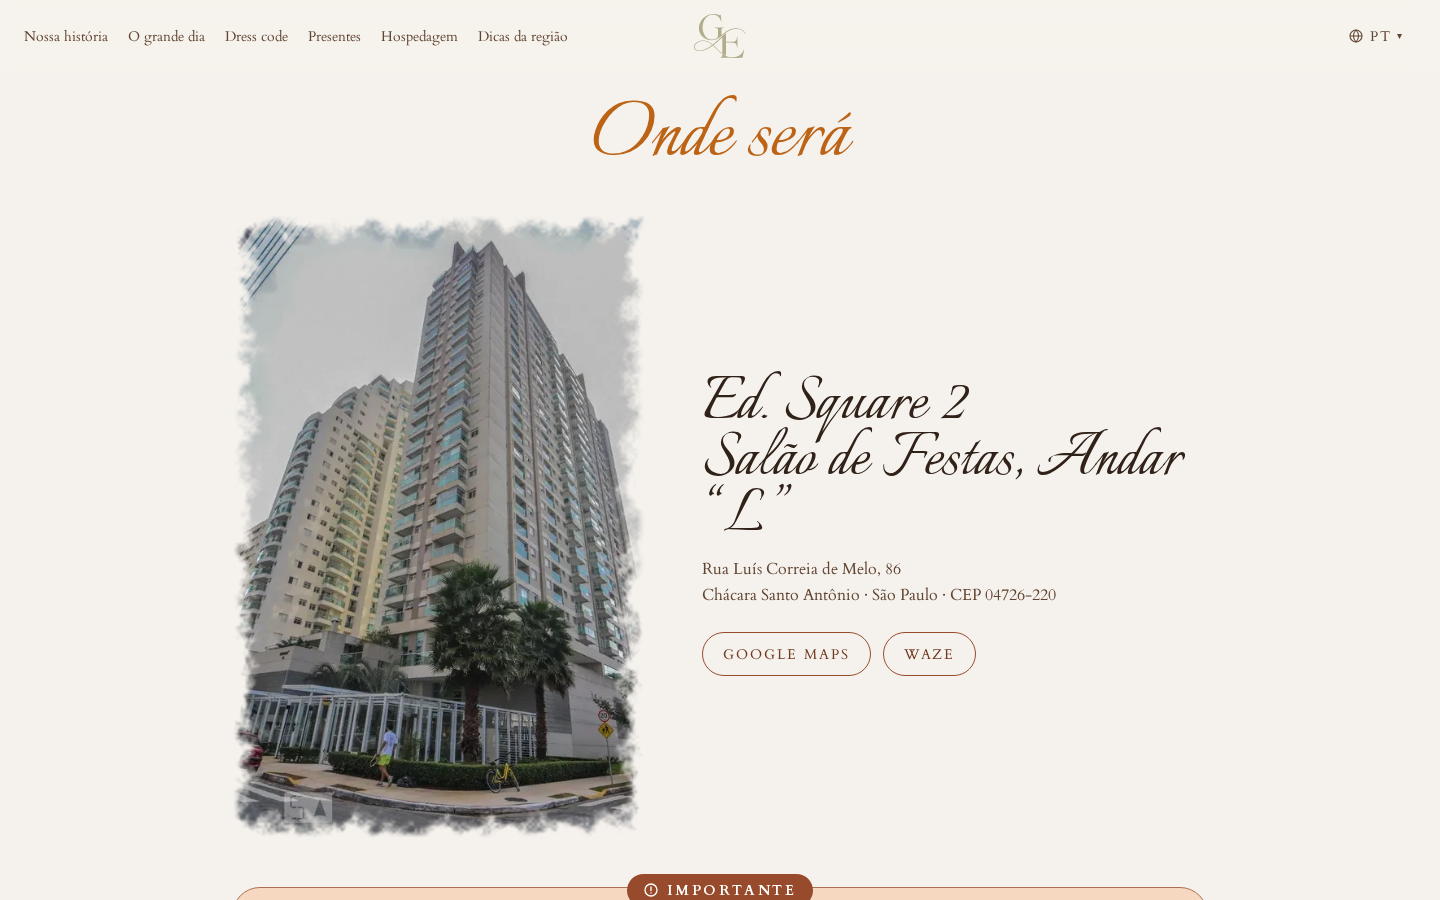
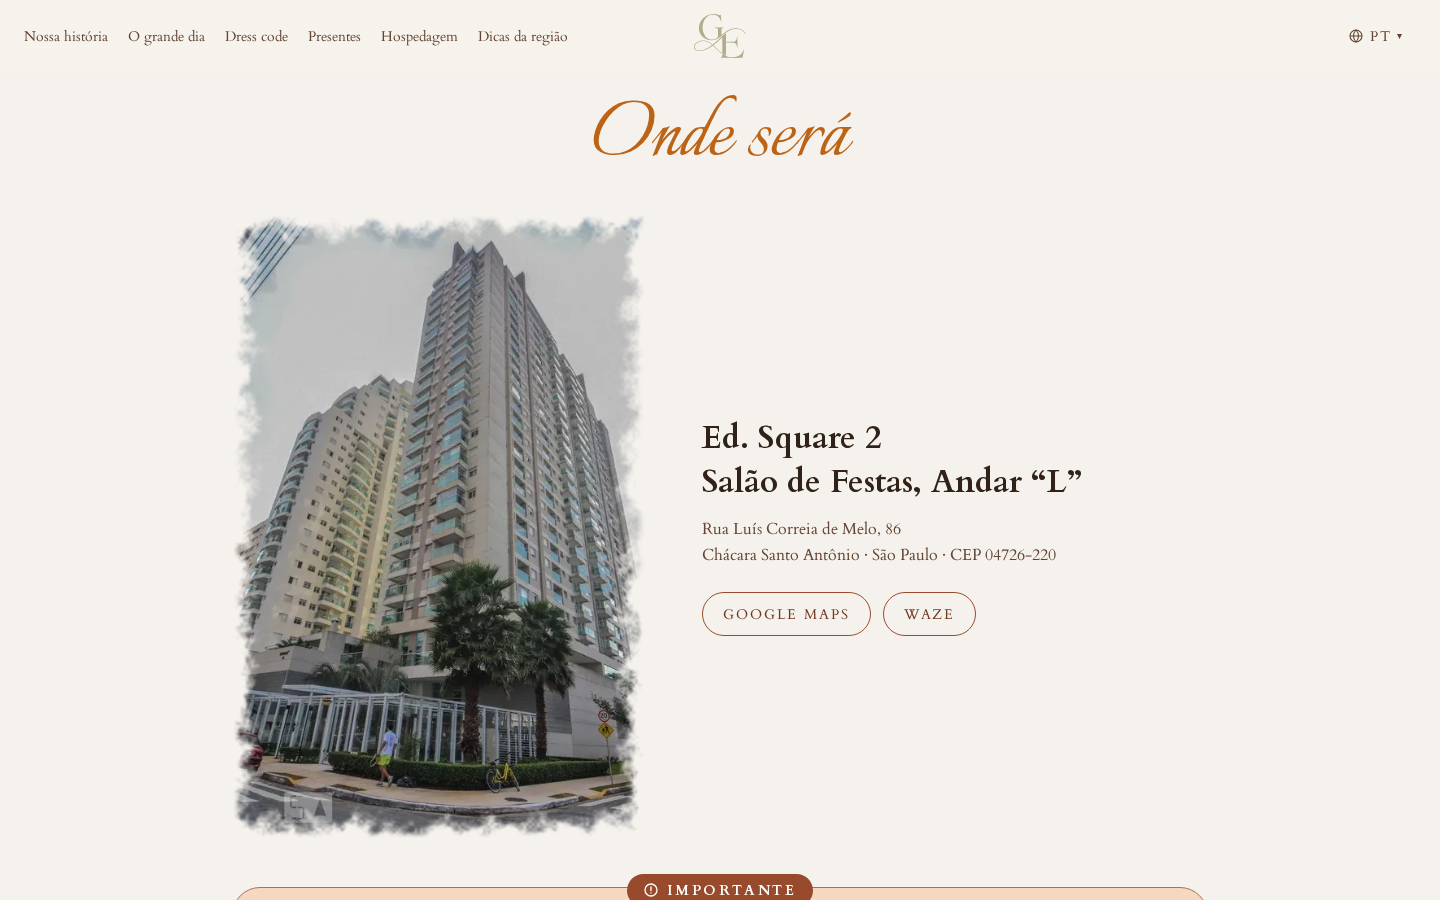
Nome do local em Cardo

Changed region(s): [[0.4688, 0.4044, 0.8125, 0.7467]]

diff --git a/components/organisms/EventSection.tsx b/components/organisms/EventSection.tsx
@@ -142,7 +142,7 @@ export function EventSection({ t, locale }: { t: Dictionary["event"]; locale: Lo
             </PaintReveal>
 
             <PaintReveal variant="rise" delay={150} className="text-center md:text-start">
-              <p className="font-display leading-tight text-text-primary" style={{ fontSize: "clamp(2rem, 4vw, 2.8rem)" }}>
+              <p className="font-body font-bold leading-snug text-text-primary" style={{ fontSize: "clamp(1.5rem, 2.6vw, 2rem)" }}>
                 {t.venue[0]}
                 <br />
                 {t.venue[1]}
